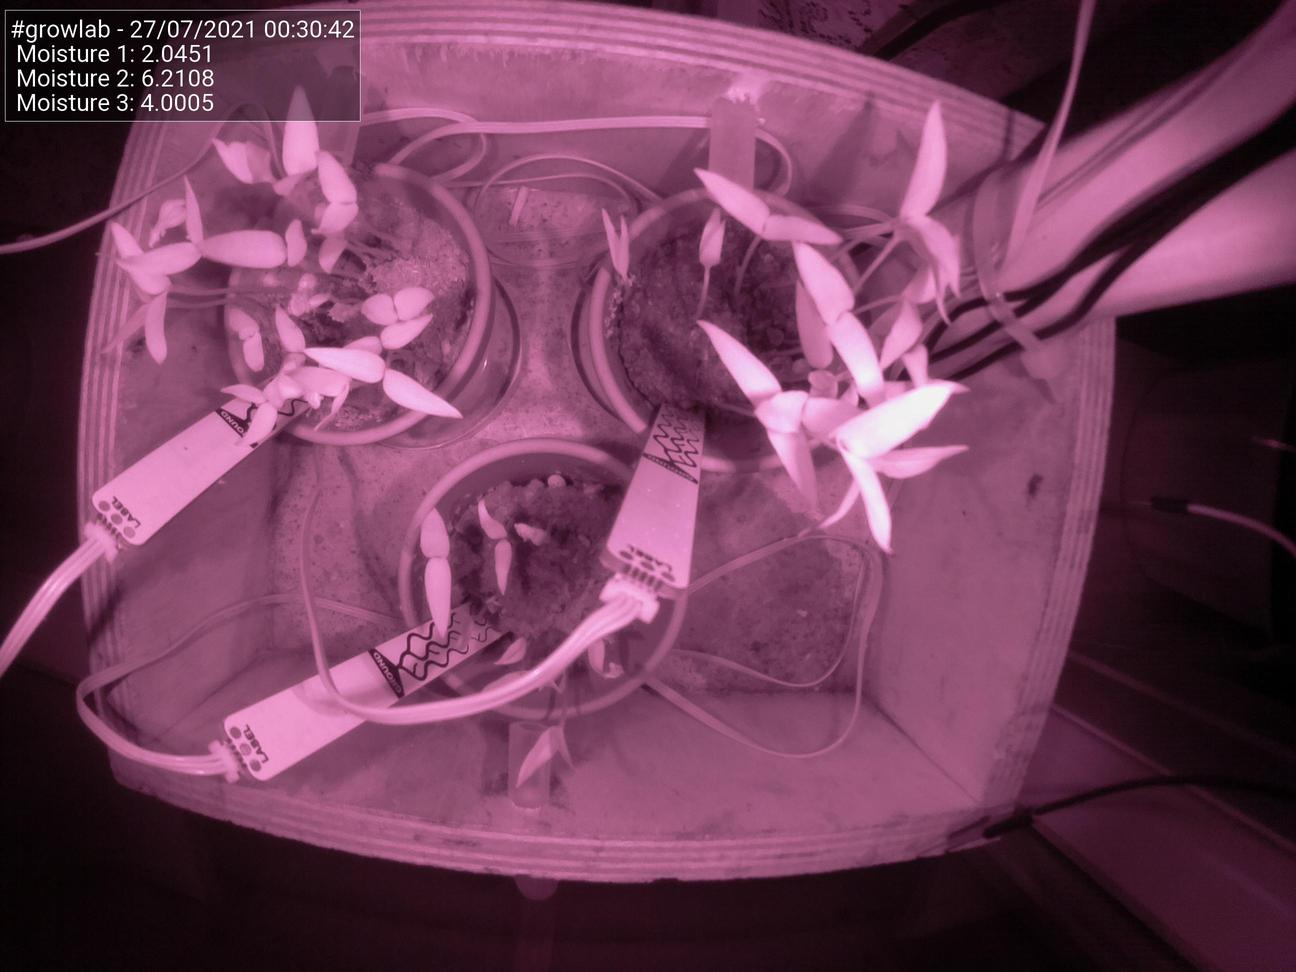
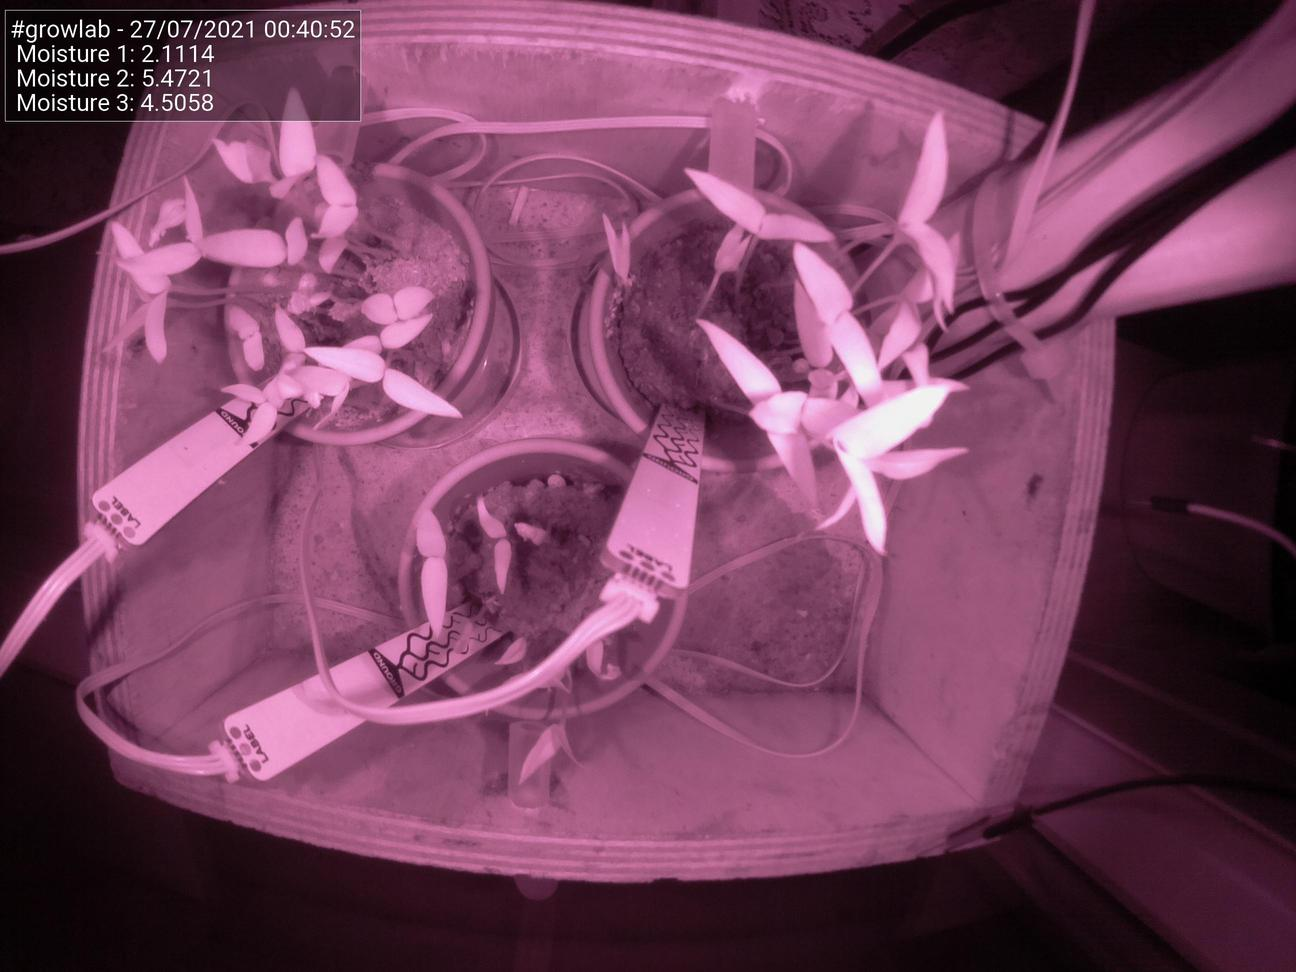
Update images at Tue 27 Jul 00:40:58 BST 2021

diff --git a/docs/index.html b/docs/index.html
@@ -51,25 +51,25 @@
                                 <td>Date</td>
                                 <td>27/07/2021</td>
                                 <td>Time</td>
-                                <td>00:30:42</td>
+                                <td>00:40:52</td>
                             </tr>
                             <tr>
                                 <td>Temperature</td>
                                 <td>N/A</td>
                                 <td>Moisture 1</td>
-                                <td>2.0451</td>
+                                <td>2.1114</td>
                             </tr>
                             <tr>
                                 <td>Humidity</td>
                                 <td>N/A</td>
                                 <td>Moisture 2</td>
-                                <td>6.2108</td>
+                                <td>5.4721</td>
                             </tr>
                             <tr>
                                 <td>Pressure</td>
                                 <td>N/A</td>
                                 <td>Moisture 3</td>
-                                <td>4.0005</td>
+                                <td>4.5058</td>
                             </tr>
                         </tbody>
                     </table>
@@ -77,7 +77,7 @@
 
                 <h5>Latest image</h5>
                 <div style="width: 85%;">
-                            <img class="figure-img img-fluid rounded" src="./preview.jpg?uid=1627342248.3285155">
+                            <img class="figure-img img-fluid rounded" src="./preview.jpg?uid=1627342858.2128525">
                 </div>
             </div>
         </div>
